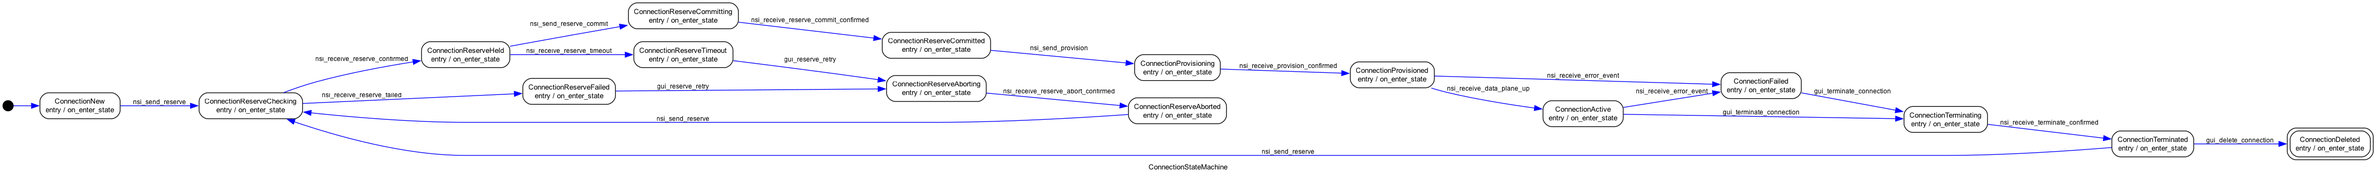
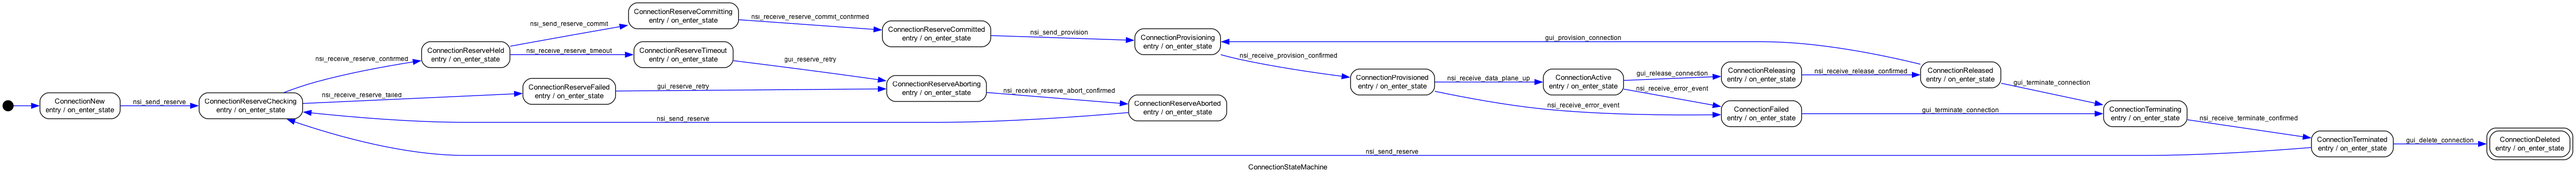
add release reservation

diff --git a/aura/frontend.py b/aura/frontend.py
@@ -16,16 +16,18 @@ from datetime import datetime
 from typing import AsyncIterable
 
 import structlog
-from fastapi import APIRouter, Request
+from fastapi import APIRouter, HTTPException, Request
 from fastui import AnyComponent, FastUI
 from fastui import components as c
 from fastui.components.display import DisplayLookup
 from fastui.events import BackEvent, GoToEvent, PageEvent
 from starlette.responses import StreamingResponse
+from statemachine.exceptions import TransitionNotAllowed
 
 from aura.db import Session
 from aura.fsm import ConnectionStateMachine
 from aura.job import (
+    gui_release_connection_job,
     gui_terminate_connection_job,
     nsi_send_provision_job,
     nsi_send_reserve_commit_job,
@@ -108,6 +110,41 @@ def reservations_view() -> list[AnyComponent]:
     ]
 
 
+def button_with_modal(name: str, button: str, title: str, modal: str, url: str) -> list[AnyComponent]:
+    """Create a button and modal with Cancel and Submit buttons."""
+    return [
+        c.Button(
+            text=button,
+            on_click=PageEvent(name=name),
+            class_name="+ ms-2",
+        ),
+        c.Modal(
+            title=title,
+            body=[
+                c.Paragraph(text=modal),
+                c.Form(
+                    form_fields=[],
+                    submit_url=url,
+                    footer=[],
+                    submit_trigger=PageEvent(name=f"{name}-submit"),
+                ),
+            ],
+            footer=[
+                c.Button(
+                    text="Cancel",
+                    named_style="secondary",
+                    on_click=PageEvent(name=name, clear=True),
+                ),
+                c.Button(
+                    text="Submit",
+                    on_click=PageEvent(name=f"{name}-submit"),
+                ),
+            ],
+            open_trigger=PageEvent(name=name),
+        ),
+    ]
+
+
 @router.get("/api/reservations/{id}/", response_model=FastUI, response_model_exclude_none=True)
 def reservation_details(id: int) -> list[AnyComponent]:
     """Display reservation details and action buttons."""
@@ -140,39 +177,24 @@ def reservation_details(id: int) -> list[AnyComponent]:
                         DisplayLookup(field="state"),
                     ],
                 ),
-                c.Button(
-                    text="Terminate Reservation",
-                    on_click=PageEvent(name="modal-terminate-reservation"),
-                    class_name="+ ms-2",
+                *button_with_modal(
+                    name="modal-terminate-reservation",
+                    button="Terminate Reservation",
+                    title=f"Terminate reservation {reservation.description}?",
+                    modal="Are you sure you want to terminate this reservation?",
+                    url=f"/api/reservations/{reservation.id}/terminate",
+                ),
+                *button_with_modal(
+                    name="modal-release-reservation",
+                    button="Release Reservation",
+                    title=f"Release reservation {reservation.description}?",
+                    modal="Are you sure you want to release this reservation?",
+                    url=f"/api/reservations/{reservation.id}/release",
                 ),
                 c.Button(
                     text="Reprovision Reservation",
                     on_click=PageEvent(name="modal-reprovision-reservation"),
                     class_name="+ ms-2",
-                ),
-                c.Modal(
-                    title=f"Terminate reservation {reservation.description}?",
-                    body=[
-                        c.Paragraph(text="Are you sure you want to terminate this reservation?"),
-                        c.Form(
-                            form_fields=[],
-                            submit_url=f"/api/reservations/{reservation.id}/terminate",
-                            footer=[],
-                            submit_trigger=PageEvent(name="modal-terminate-reservation-submit"),
-                        ),
-                    ],
-                    footer=[
-                        c.Button(
-                            text="Cancel",
-                            named_style="secondary",
-                            on_click=PageEvent(name="modal-terminate-reservation", clear=True),
-                        ),
-                        c.Button(
-                            text="Submit",
-                            on_click=PageEvent(name="modal-terminate-reservation-submit"),
-                        ),
-                    ],
-                    open_trigger=PageEvent(name="modal-terminate-reservation"),
                 ),
                 c.Modal(
                     title=f"Reprovision reservation {reservation.description}?",
@@ -224,12 +246,12 @@ async def reservation_log_stream(id: int) -> AsyncIterable[str]:
 
 
 @router.get("/api/reservations/{id}/log/sse")
-async def sse_ai_response(id: int) -> StreamingResponse:
+async def reservation_log_sse(id: int) -> StreamingResponse:
     return StreamingResponse(reservation_log_stream(id), media_type="text/event-stream")
 
 
 @router.get("/api/reservations/{id}/log", response_model=FastUI, response_model_exclude_none=True)
-async def terminate_reservation(id: int) -> list[AnyComponent]:
+async def reservation_log(id: int) -> list[AnyComponent]:
     """Show streaming log for reservation with given id."""
     heading = "streaming log"
     return [
@@ -255,21 +277,41 @@ async def terminate_reservation(id: int) -> list[AnyComponent]:
 
 
 @router.post("/api/reservations/{id}/terminate", response_model=FastUI, response_model_exclude_none=True)
-async def terminate_reservation(id: int) -> list[AnyComponent]:
+async def reservation_terminate(id: int) -> list[AnyComponent]:
     """Terminate reservation with given id."""
-    with Session.begin() as session:
-        reservation = session.query(Reservation).filter(Reservation.id == id).one()
-        csm = ConnectionStateMachine(reservation)
-        csm.gui_terminate_connection()
-    scheduler.add_job(gui_terminate_connection_job, args=[id])
-    return [
-        c.FireEvent(event=PageEvent(name="modal-terminate-reservation", clear=True)),
-        c.FireEvent(event=GoToEvent(url=f"/reservations/{id}/log")),
-    ]
+    try:
+        with Session.begin() as session:
+            reservation = session.query(Reservation).filter(Reservation.id == id).one()
+            csm = ConnectionStateMachine(reservation)
+            csm.gui_terminate_connection()
+        scheduler.add_job(gui_terminate_connection_job, args=[id])
+        return [
+            c.FireEvent(event=PageEvent(name="modal-terminate-reservation", clear=True)),
+            c.FireEvent(event=GoToEvent(url=f"/reservations/{id}/log")),
+        ]
+    except TransitionNotAllowed as e:
+        raise HTTPException(status_code=500, detail=str(e)) from e
+
+
+@router.post("/api/reservations/{id}/release", response_model=FastUI, response_model_exclude_none=True)
+async def reservation_release(id: int) -> list[AnyComponent]:
+    """Release reservation with given id."""
+    try:
+        with Session.begin() as session:
+            reservation = session.query(Reservation).filter(Reservation.id == id).one()
+            csm = ConnectionStateMachine(reservation)
+            csm.gui_release_connection()
+        scheduler.add_job(gui_release_connection_job, args=[id])
+        return [
+            c.FireEvent(event=PageEvent(name="modal-release-reservation", clear=True)),
+            c.FireEvent(event=GoToEvent(url=f"/reservations/{id}/log")),
+        ]
+    except TransitionNotAllowed as e:
+        raise HTTPException(status_code=500, detail=str(e)) from e
 
 
 @router.post("/api/reservations/{id}/reprovision", response_model=FastUI, response_model_exclude_none=True)
-async def reprovision_reservation(id: int) -> list[AnyComponent]:
+async def reservation_reprovision(id: int) -> list[AnyComponent]:
     """Reprovision reservation with given id."""
     with Session.begin() as session:
         reservation = session.query(Reservation).filter(Reservation.id == id).one()
@@ -323,6 +365,9 @@ async def nsi_callback(request: Request):
             case '"http://schemas.ogf.org/nsi/2013/12/connection/service/provisionConfirmed"':
                 log.info("provision confirmed from aggregator")
                 csm.nsi_receive_provision_confirmed()
+            case '"http://schemas.ogf.org/nsi/2013/12/connection/service/releaseConfirmed"':
+                log.info("release confirmed from aggregator")
+                csm.nsi_receive_release_confirmed()
             case '"http://schemas.ogf.org/nsi/2013/12/connection/service/terminateConfirmed"':
                 log.info("terminate confirmed from aggregator")
                 csm.nsi_receive_terminate_confirmed()

diff --git a/aura/fsm.py b/aura/fsm.py
@@ -48,6 +48,7 @@ class ConnectionStateMachine(AuraStateMachine):
 
     ConnectionNew = State("ConnectionNew", "CONNECTION_NEW", initial=True)
     ConnectionProvisioned = State("ConnectionProvisioned", "CONNECTION_PROVISIONED")
+    ConnectionReleased = State("ConnectionReleased", "CONNECTION_RELEASED")
     ConnectionActive = State("ConnectionActive", "CONNECTION_ACTIVE")
     ConnectionFailed = State("ConnectionFailed", "CONNECTION_FAILED")
     ConnectionTerminated = State("ConnectionTerminated", "CONNECTION_TERMINATED")
@@ -57,6 +58,7 @@ class ConnectionStateMachine(AuraStateMachine):
     ConnectionReserveCommitting = State("ConnectionReserveCommitting", "CONNECTION_RESERVE_COMMITTING")
     ConnectionReserveCommitted = State("ConnectionReserveCommitted", "CONNECTION_RESERVE_COMMITTED")
     ConnectionProvisioning = State("ConnectionProvisioning", "CONNECTION_PROVISIONING")
+    ConnectionReleasing = State("ConnectionReleasing", "CONNECTION_RELEASING")
     ConnectionReserveFailed = State("ConnectionReserveFailed", "CONNECTION_RESERVE_FAILED")
     ConnectionReserveTimeout = State("ConnectionReserveTimeout", "CONNECTION_RESERVE_TIMEOUT")
     ConnectionReserveAborting = State("ConnectionReserveAborting", "CONNECTION_RESERVE_ABORTING")
@@ -77,14 +79,17 @@ class ConnectionStateMachine(AuraStateMachine):
     nsi_receive_reserve_commit_confirmed = ConnectionReserveCommitting.to(ConnectionReserveCommitted)
     nsi_send_provision = ConnectionReserveCommitted.to(ConnectionProvisioning)
     nsi_receive_provision_confirmed = ConnectionProvisioning.to(ConnectionProvisioned)
+    nsi_receive_release_confirmed = ConnectionReleasing.to(ConnectionReleased)
     nsi_receive_data_plane_up = ConnectionProvisioned.to(ConnectionActive)
     gui_delete_connection = ConnectionTerminated.to(ConnectionDeleted)
     nsi_receive_error_event = (
         ConnectionActive.to(ConnectionFailed)
         | ConnectionProvisioned.to(ConnectionFailed)
     )
+    gui_release_connection = ConnectionActive.to(ConnectionReleasing)
+    gui_provision_connection = ConnectionReleased.to(ConnectionProvisioning)
     gui_terminate_connection = (
-        ConnectionActive.to(ConnectionTerminating)
+        ConnectionReleased.to(ConnectionTerminating)
         | ConnectionFailed.to(ConnectionTerminating)
     )
     nsi_receive_terminate_confirmed = ConnectionTerminating.to(ConnectionTerminated)

diff --git a/aura/job.py b/aura/job.py
@@ -21,7 +21,13 @@ from pytz import utc
 
 from aura.db import Session
 from aura.model import STP, Reservation
-from aura.nsi_comm import nsi_send_provision, nsi_send_reserve, nsi_send_reserve_commit, nsi_send_terminate
+from aura.nsi_comm import (
+    nsi_send_provision,
+    nsi_send_release,
+    nsi_send_reserve,
+    nsi_send_reserve_commit,
+    nsi_send_terminate,
+)
 
 # Advanced Python Scheduler
 # scheduler = AsyncIOScheduler(event_loop=asyncio.get_running_loop(), timezone=utc)
@@ -79,10 +85,30 @@ def gui_terminate_connection_job(reservation_id: int) -> None:
         correlationId=str(reservation.correlationId),
         connectionId=str(reservation.connectionId),
     )
-    log.info("send terminate")
-    reply_dict = nsi_send_terminate(reservation)  # TODO: need error handling on failed post soap
+    log.info("send terminate to aggregator")
+    reply_dict = nsi_send_terminate(reservation)
     if "Fault" in reply_dict["Body"]:
         se = reply_dict["Body"]["Fault"]["detail"]["serviceException"]
-        log.warning("send terminate failed", nsaId=se["nsaId"], errorId=se["errorId"], text=se["text"])
+        log.warning(f"send terminate failed: {se["text"]}", nsaId=se["nsaId"], errorId=se["errorId"], text=se["text"])
+        # TODO: transition to error state (that needs to be defined)
     else:
-        log.info("send terminate successful")
+        log.info("terminate successfully sent")
+
+
+def gui_release_connection_job(reservation_id: int) -> None:
+    new_correlation_id_on_reservation(reservation_id)
+    with Session() as session:
+        reservation = session.query(Reservation).filter(Reservation.id == reservation_id).one()
+    log = logger.bind(
+        reservationId=reservation.id,
+        correlationId=str(reservation.correlationId),
+        connectionId=str(reservation.connectionId),
+    )
+    log.info("send release to aggregator")
+    reply_dict = nsi_send_release(reservation)
+    if "Fault" in reply_dict["Body"]:
+        se = reply_dict["Body"]["Fault"]["detail"]["serviceException"]
+        log.warning(f"send release failed: {se["text"]}", nsaId=se["nsaId"], errorId=se["errorId"], text=se["text"])
+        # TODO: transition to error state (that needs to be defined)
+    else:
+        log.info("send release successful")

diff --git a/aura/nsi_comm.py b/aura/nsi_comm.py
@@ -1204,13 +1204,19 @@ def nsi_send_provision(reservation: Reservation) -> dict[str, str]:
     return retdict
 
 
-def nsi_send_terminate(reservation: Reservation) -> dict[str, Any]:
-    log = logger.bind(
-        reservationId=reservation.id,
-        correlationId=str(reservation.correlationId),
-        connectionId=str(reservation.connectionId),
+def nsi_send_release(reservation: Reservation) -> dict[str, Any]:
+    soap_xml = generate_release_xml(
+        release_templstr,
+        reservation.correlationId,
+        str(settings.NSA_BASE_URL) + "api/nsi/callback/",
+        str(reservation.connectionId),
+        state.global_provider_nsa_id,
     )
-    log.info("send terminate to aggregator")
+    soap_xml = nsi_util_post_soap(state.global_soap_provider_url, soap_xml)
+    return nsi_util_xml_to_dict(soap_xml)
+
+
+def nsi_send_terminate(reservation: Reservation) -> dict[str, Any]:
     soap_xml = generate_terminate_xml(
         terminate_templstr,
         reservation.correlationId,
@@ -1219,9 +1225,7 @@ def nsi_send_terminate(reservation: Reservation) -> dict[str, Any]:
         state.global_provider_nsa_id,
     )
     soap_xml = nsi_util_post_soap(state.global_soap_provider_url, soap_xml)
-    reply_dict = nsi_util_xml_to_dict(soap_xml)
-    log.info("terminate successful sent")
-    return reply_dict
+    return nsi_util_xml_to_dict(soap_xml)
 
 
 #

diff --git a/aura/log.py b/aura/log.py
@@ -140,6 +140,16 @@ def init() -> None:
                 # "uvicorn.error": {
                 #     "propagate": False
                 # }
+                "uvicorn.access": {
+                    "handlers": ["default", "file", "database"],
+                    "level": settings.LOG_LEVEL,
+                    "propagate": True,
+                },
+                "uvicorn.error": {
+                    "handlers": ["default", "file", "database"],
+                    "level": settings.LOG_LEVEL,
+                    "propagate": True,
+                },
             },
         }
     )
